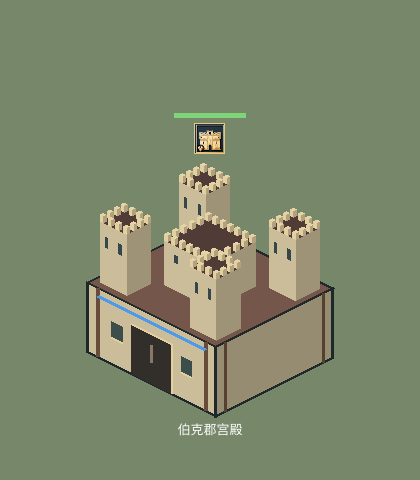
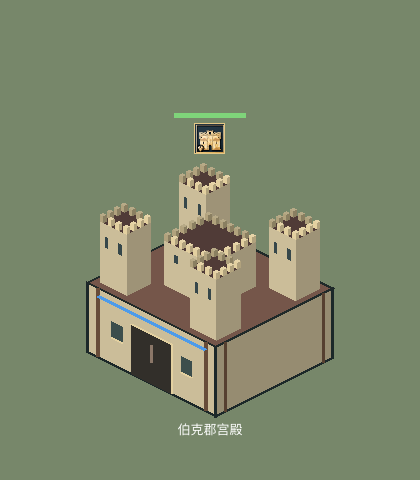
Shade rear battlements to clarify isometric depth

diff --git a/docs/landmark-rendering/README.md b/docs/landmark-rendering/README.md
@@ -48,7 +48,7 @@ docs/godot/bin/godot.macos.template_debug.arm64 --path . \
 
 ## 垛口四边补齐（同日后续修正）
 
-前一版 `flat` / `clock` 地标仅生成了朝前的两侧垛口，原遮挡测试验证了已存在面片的顺序，未检查缺失的几何。现在补齐四边，齿块向屋顶内缩，角齿只生成一次；普通城堡的顶塔及横／竖城墙、城门也统一沿四边绘制。
+前一版 `flat` / `clock` 地标仅生成了朝前的两侧垛口，原遮挡测试验证了已存在面片的顺序，未检查缺失的几何。现在补齐四边，齿块向屋顶内缩，角齿只生成一次。后侧齿块颜色加深 22%，侧面转角加深 8%，前侧保持亮色；普通城堡的顶塔及横／竖城墙、城门也统一沿四边绘制。
 
 新增平顶、钟楼的四边完整性与齿块不重叠检查：修复前两项均失败，修复后通过。深度校验 1,858 个有效采样点一致；21,084 个点击采样点通过，等距视角回归通过。实渲染检查覆盖全部 21 种地标／奇观外观和 6 种普通防御建筑／朝向。
 
